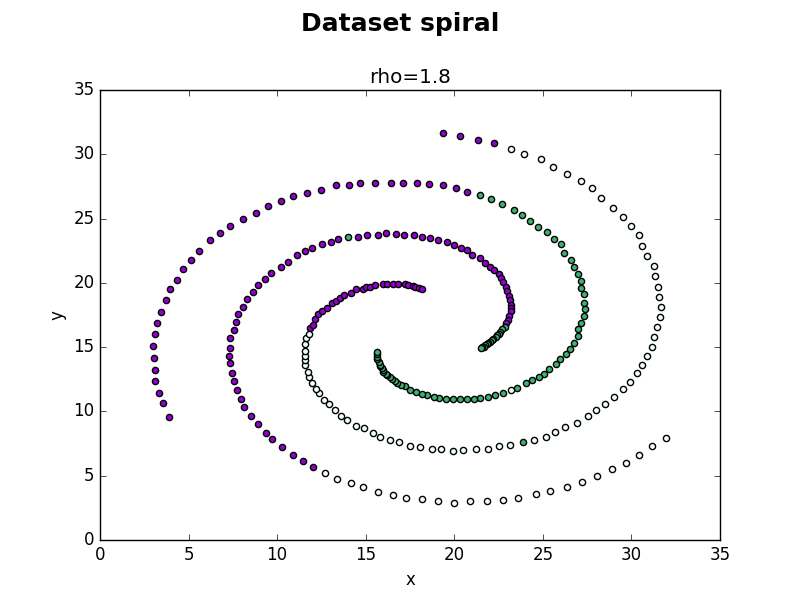
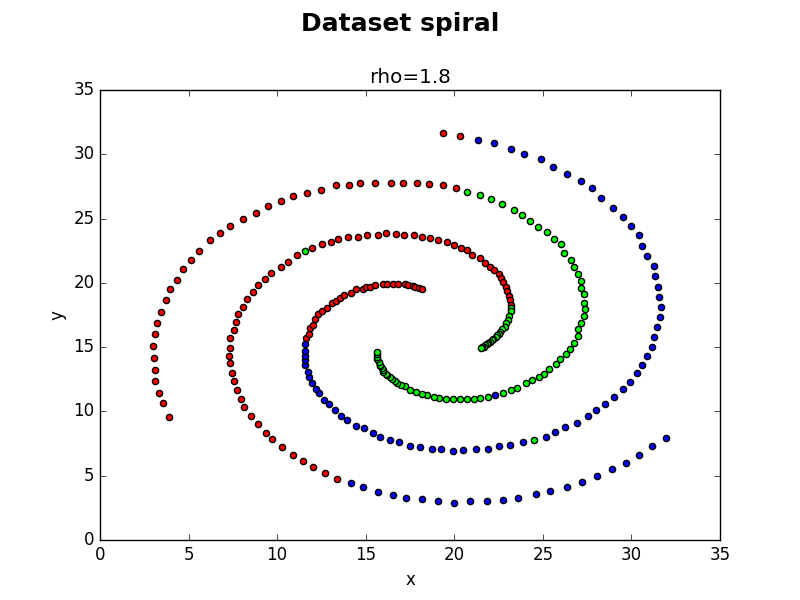
Added mutation algorithm from the paper

diff --git a/src/Algorithms.py b/src/Algorithms.py
@@ -201,6 +201,26 @@ class Cluster:
         # http://stackoverflow.com/questions/16970982/find-unique-rows-in-numpy-array
         self.P[t] = np.vstack(set(map(tuple, new_pop)))
 
+    def mutate_paper_function(self, individual, idx):
+        """
+
+        :param individual: individual to be mutated
+        :param idx: position of individual to be mutated
+        :return: new cluster idx
+        """
+        cluster = individual[idx]
+        if random.choice([True, False]):
+            new_cluster = cluster + int(math.floor((self.N - cluster) * random.random() + 1))
+        else:
+            new_cluster = cluster - int(math.floor((cluster - 1) * random.random() + 1))
+
+        # if is out or range get random idx
+        if new_cluster >= self.N or new_cluster < 0:
+            new_cluster = self.get_random_indices(self.N, 1)
+
+        print("mutation_paper cluster={} mutated={}".format(cluster, new_cluster))
+        return new_cluster
+
     def mutate(self, t):
         if self.debug:
             print("\nt={} mutate".format(t))
@@ -216,13 +236,18 @@ class Cluster:
                 print("p={}".format(p))
             # index to mutate in p
             p_idx = self.get_random_indices(len(p), 1)
+
             # new data idx
             p_mutated = p.copy()
-            if p_mutated[p_idx] + 10 < self.N:
-                d_idx = p_mutated[p_idx] + 10
-            else:
-                d_idx = p_mutated[p_idx] - 10
+
+            # if p_mutated[p_idx] + 10 < self.N:
+            #     d_idx = p_mutated[p_idx] + 10
+            # else:
+            #     d_idx = p_mutated[p_idx] - 10
+
             # d_idx = self.get_random_indices(self.N, 1)
+
+            d_idx = self.mutate_paper_function(p, p_idx)
 
             p_mutated[p_idx] = d_idx
             if self.debug:

diff --git a/src/Database.py b/src/Database.py
@@ -14,7 +14,9 @@ class Database:
 
     def __init__(self):
         self.path = ""
-        pass
+        self.colours = ["#FF0000", "#0000FF", "#00FF00", "#00CCFF", "#FF33CC", "#FFFF00", "#000000", "#CCCCCC",
+                        "#522900", "#FFFFCC", "#99CC00", "#FF9999", "#336699", "#006600", "#CCFFFF", "#CCCC00",
+                        "#FFCCFF", "#9900FF", "#006666", "#993366"]
 
     @abstractmethod
     def load_data(self):
@@ -45,7 +47,7 @@ class Database:
         ax.set_xlabel('x')
         ax.set_ylabel('y')
 
-        for l in ls:
+        for l_idx, l in enumerate(ls):
             print("labels_np={}".format(labels_np))
             print("l={}".format(l))
 
@@ -55,7 +57,7 @@ class Database:
             y = d[:, 1]
             print("x={} y={}".format(x.shape, y.shape))
             color_idx = int(l) % len(colors_values)
-            ax.scatter(x, y, c=colors_values[color_idx])
+            ax.scatter(x, y, c=self.colours[l_idx])
 
         fig_name = "../images/{}_{}.png".format(name, rho)
         fig.savefig(fig_name)
